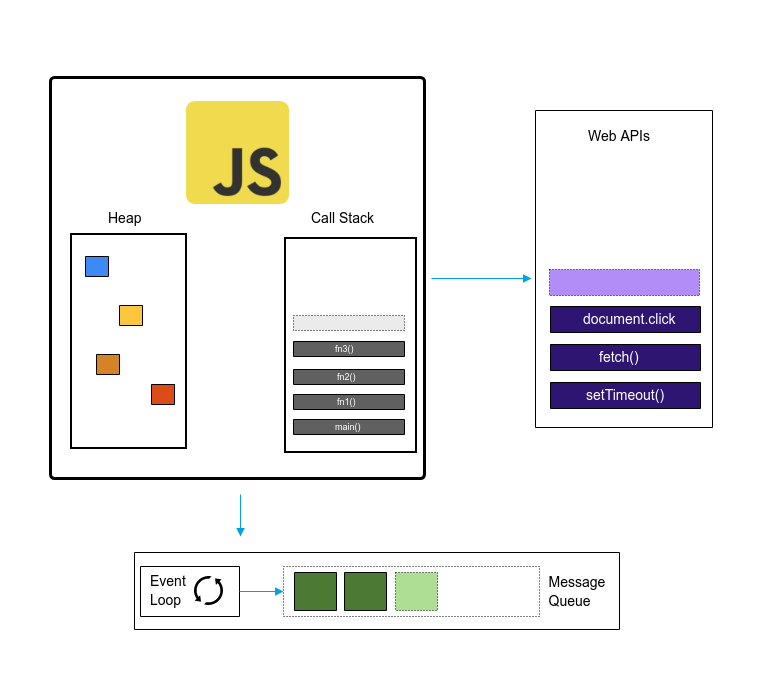
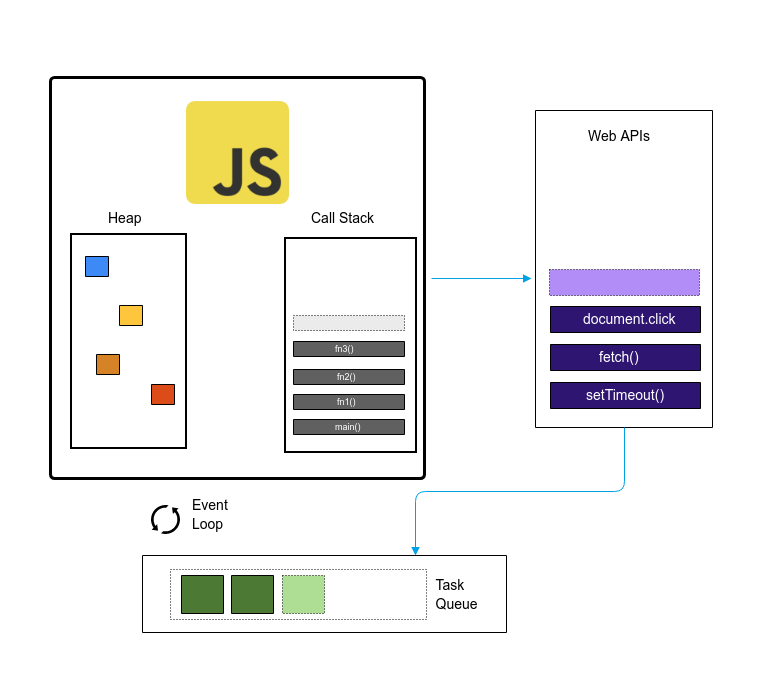
Added microtask explanation

Changed region(s): [[0.1811, 0.72, 0.6942, 0.9], [0.7244, 0.81, 0.815, 0.87], [0.664, 0.87, 0.6942, 0.9]]

diff --git a/README.md b/README.md
@@ -74,7 +74,9 @@ const failure = () => console.log('I should not play the Loto');
 hello(succ, failure);
 ```
 
-## Chapter 2 - Promises[9]
+## Chapter 2 - Promises[9](https://jakearchibald.com/2015/tasks-microtasks-queues-and-schedules)
+
+What will be the output and why?
 
 ```javascript
 console.log('script start');
@@ -91,6 +93,44 @@ Promise.resolve().then(function() {
 
 console.log('script end');
 ```
+
+<details><summary>Explanation</summary>
+<p>
+
+With Promises there came a new way of executing async code called: **Microtask**. This new concept was neede because Promises can guarantee an order of execution evne though they are asyncrhonous. This means that the event loop has another queueu for schedluing these kind of microtasks. The main difference between a **task** and a **microtask** is that a task different actions can happen between them. After a task si ran, the next task can only pushed to the call stack only if nothing else in mid-execution or the call stack is empty and ready to take in another task. 
+
+With **microtasks** however, they have a **priority** over tasks. If a microtask was queued, it will run before taking in any tasks. Even more, microtasks are processed as long as there are any on the microstack queue. This means that microstack processing can cause a block on the thread as long as you keep schedule them.
+
+This can be better explained threw this two examples:
+
+#### Infnite task creating is non-blocking
+
+```javascript
+function createTask() {
+	console.log('new task');
+	setTimeout(createTask);
+}	
+
+createTask(0);
+```
+
+#### Infinite microtask creaking blocks the main thread
+
+```javascript
+function createMicrotask() {
+	console.log()
+	Promise.resolve().then(createMicrotask);
+}
+
+createMicrotask();
+```
+
+</p>
+</details>
+
+### The Event Loop with Microtasks
+
+![JavaScript Runtime Event Loop with Microtasks](./assets/JS_Runtime_with_Promises.png)
 
 
 ## Chapter 3 - Async/Await
